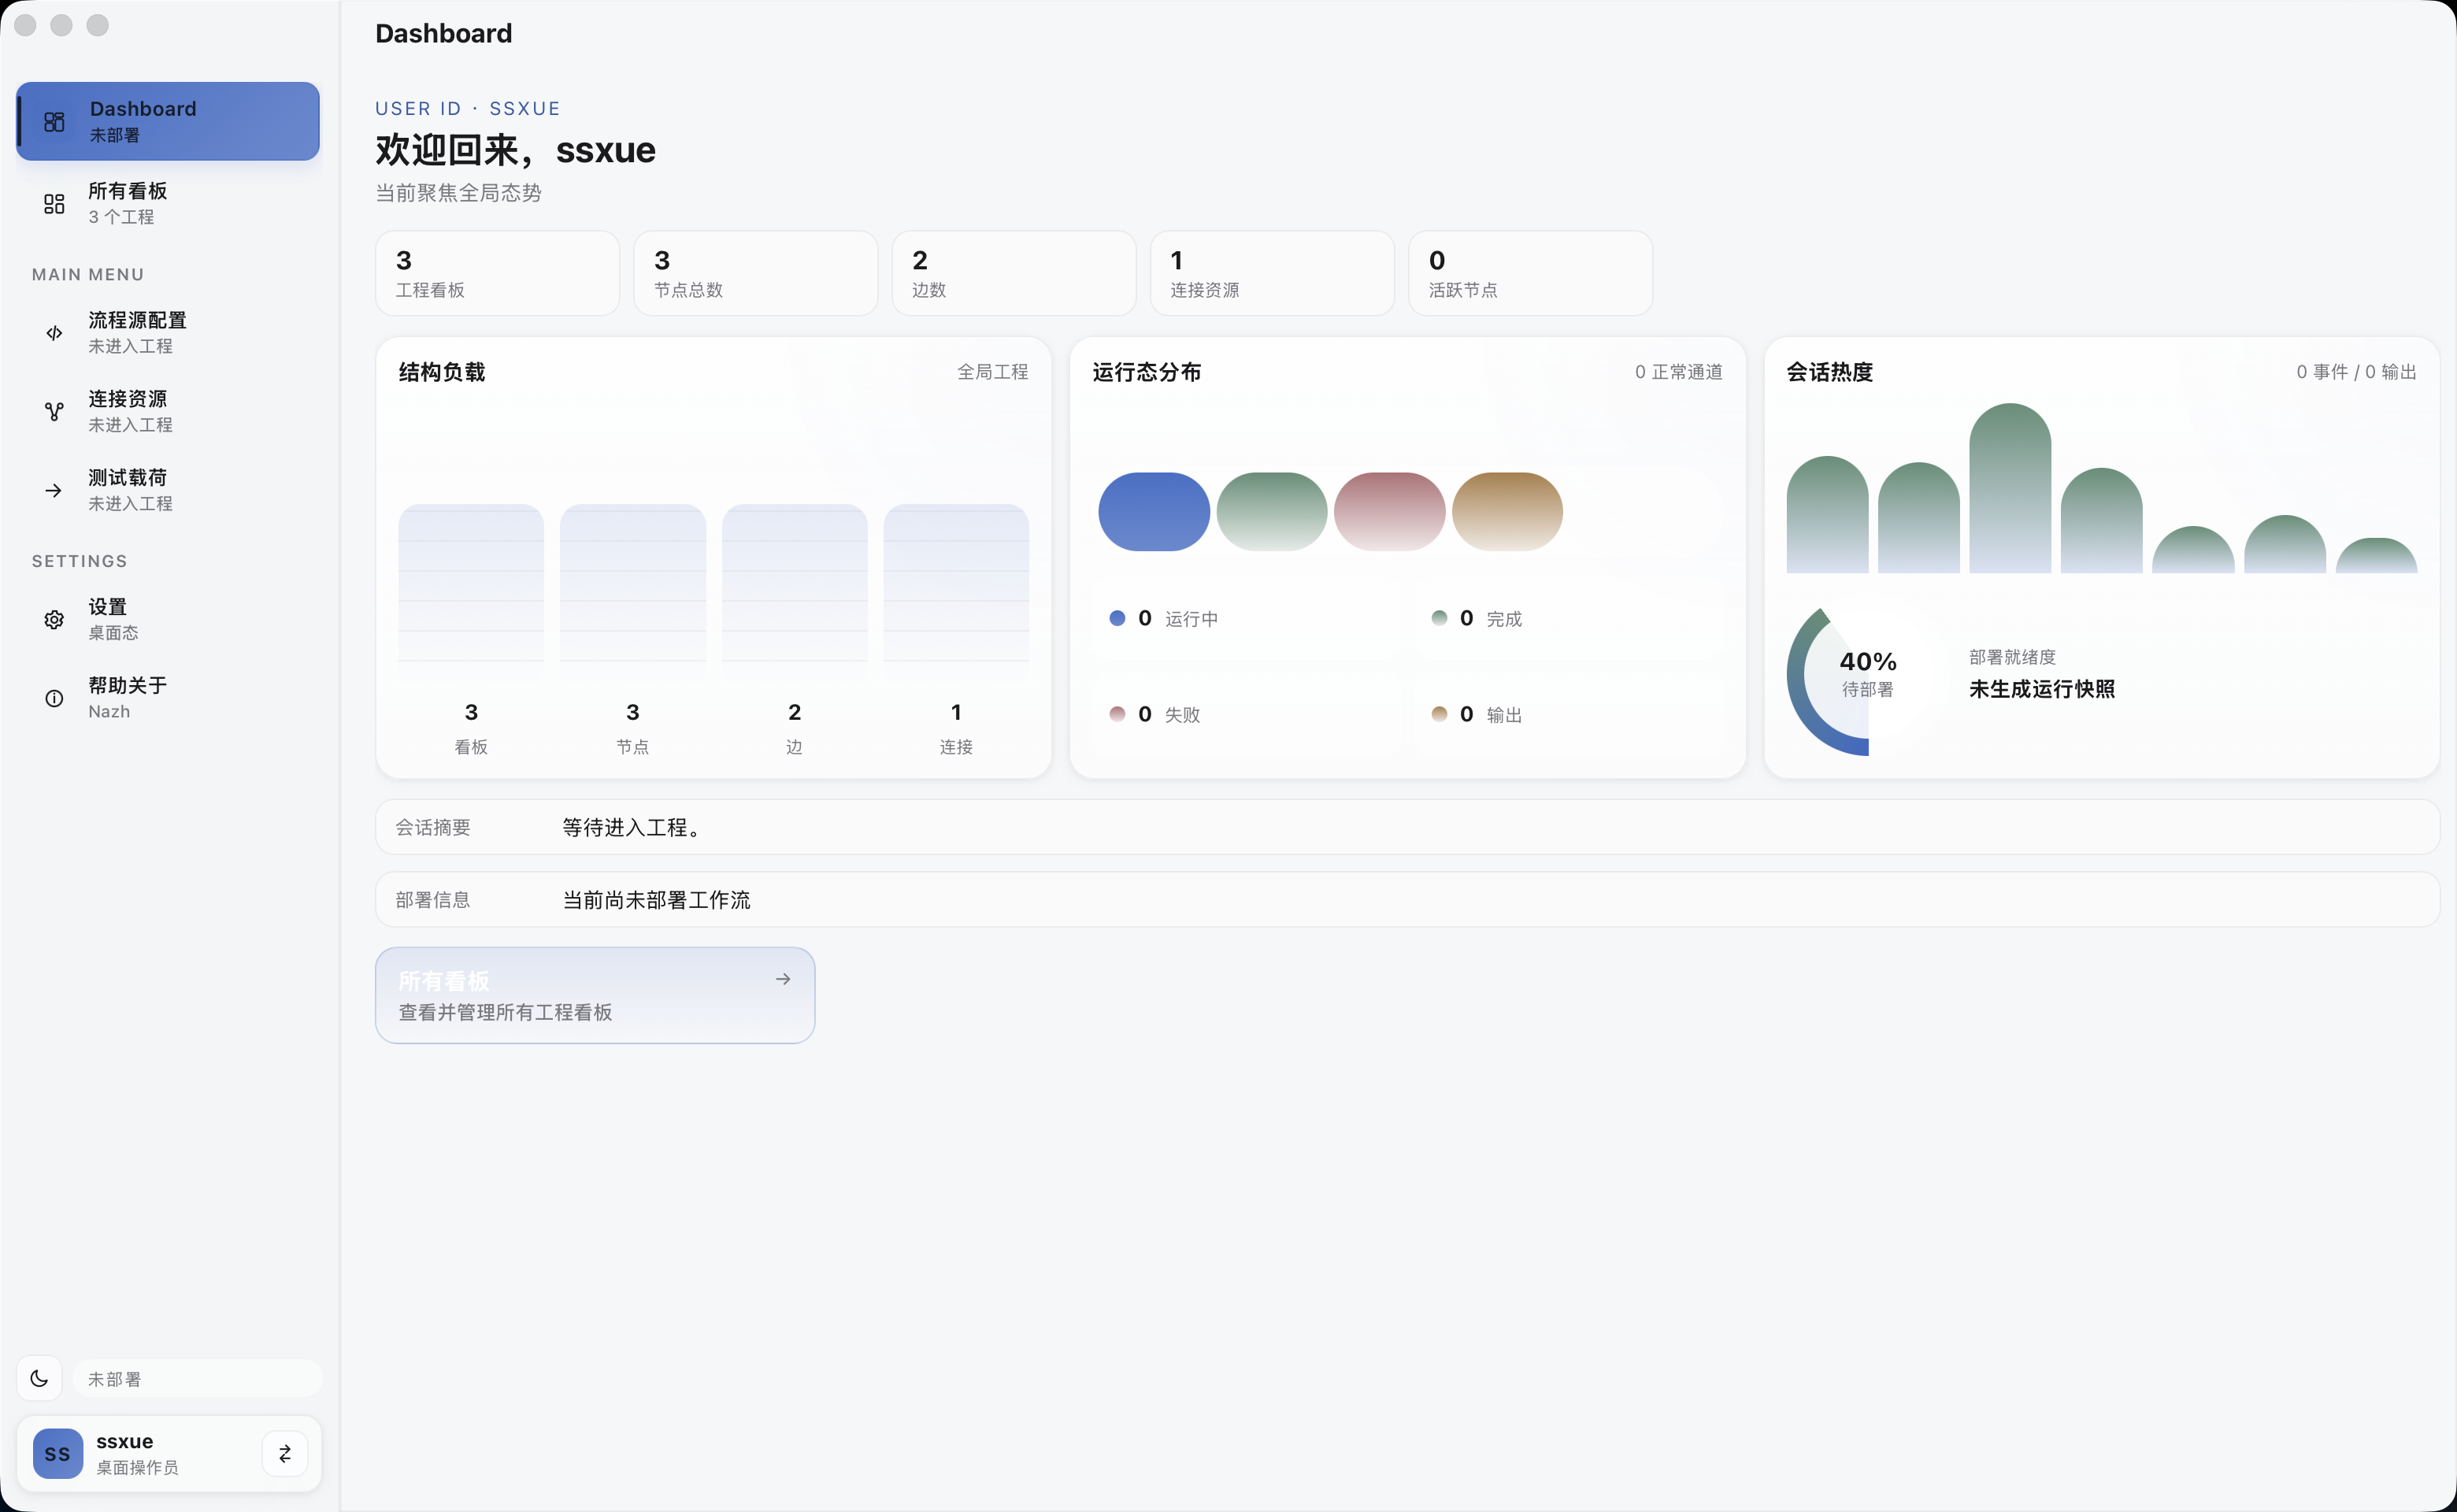
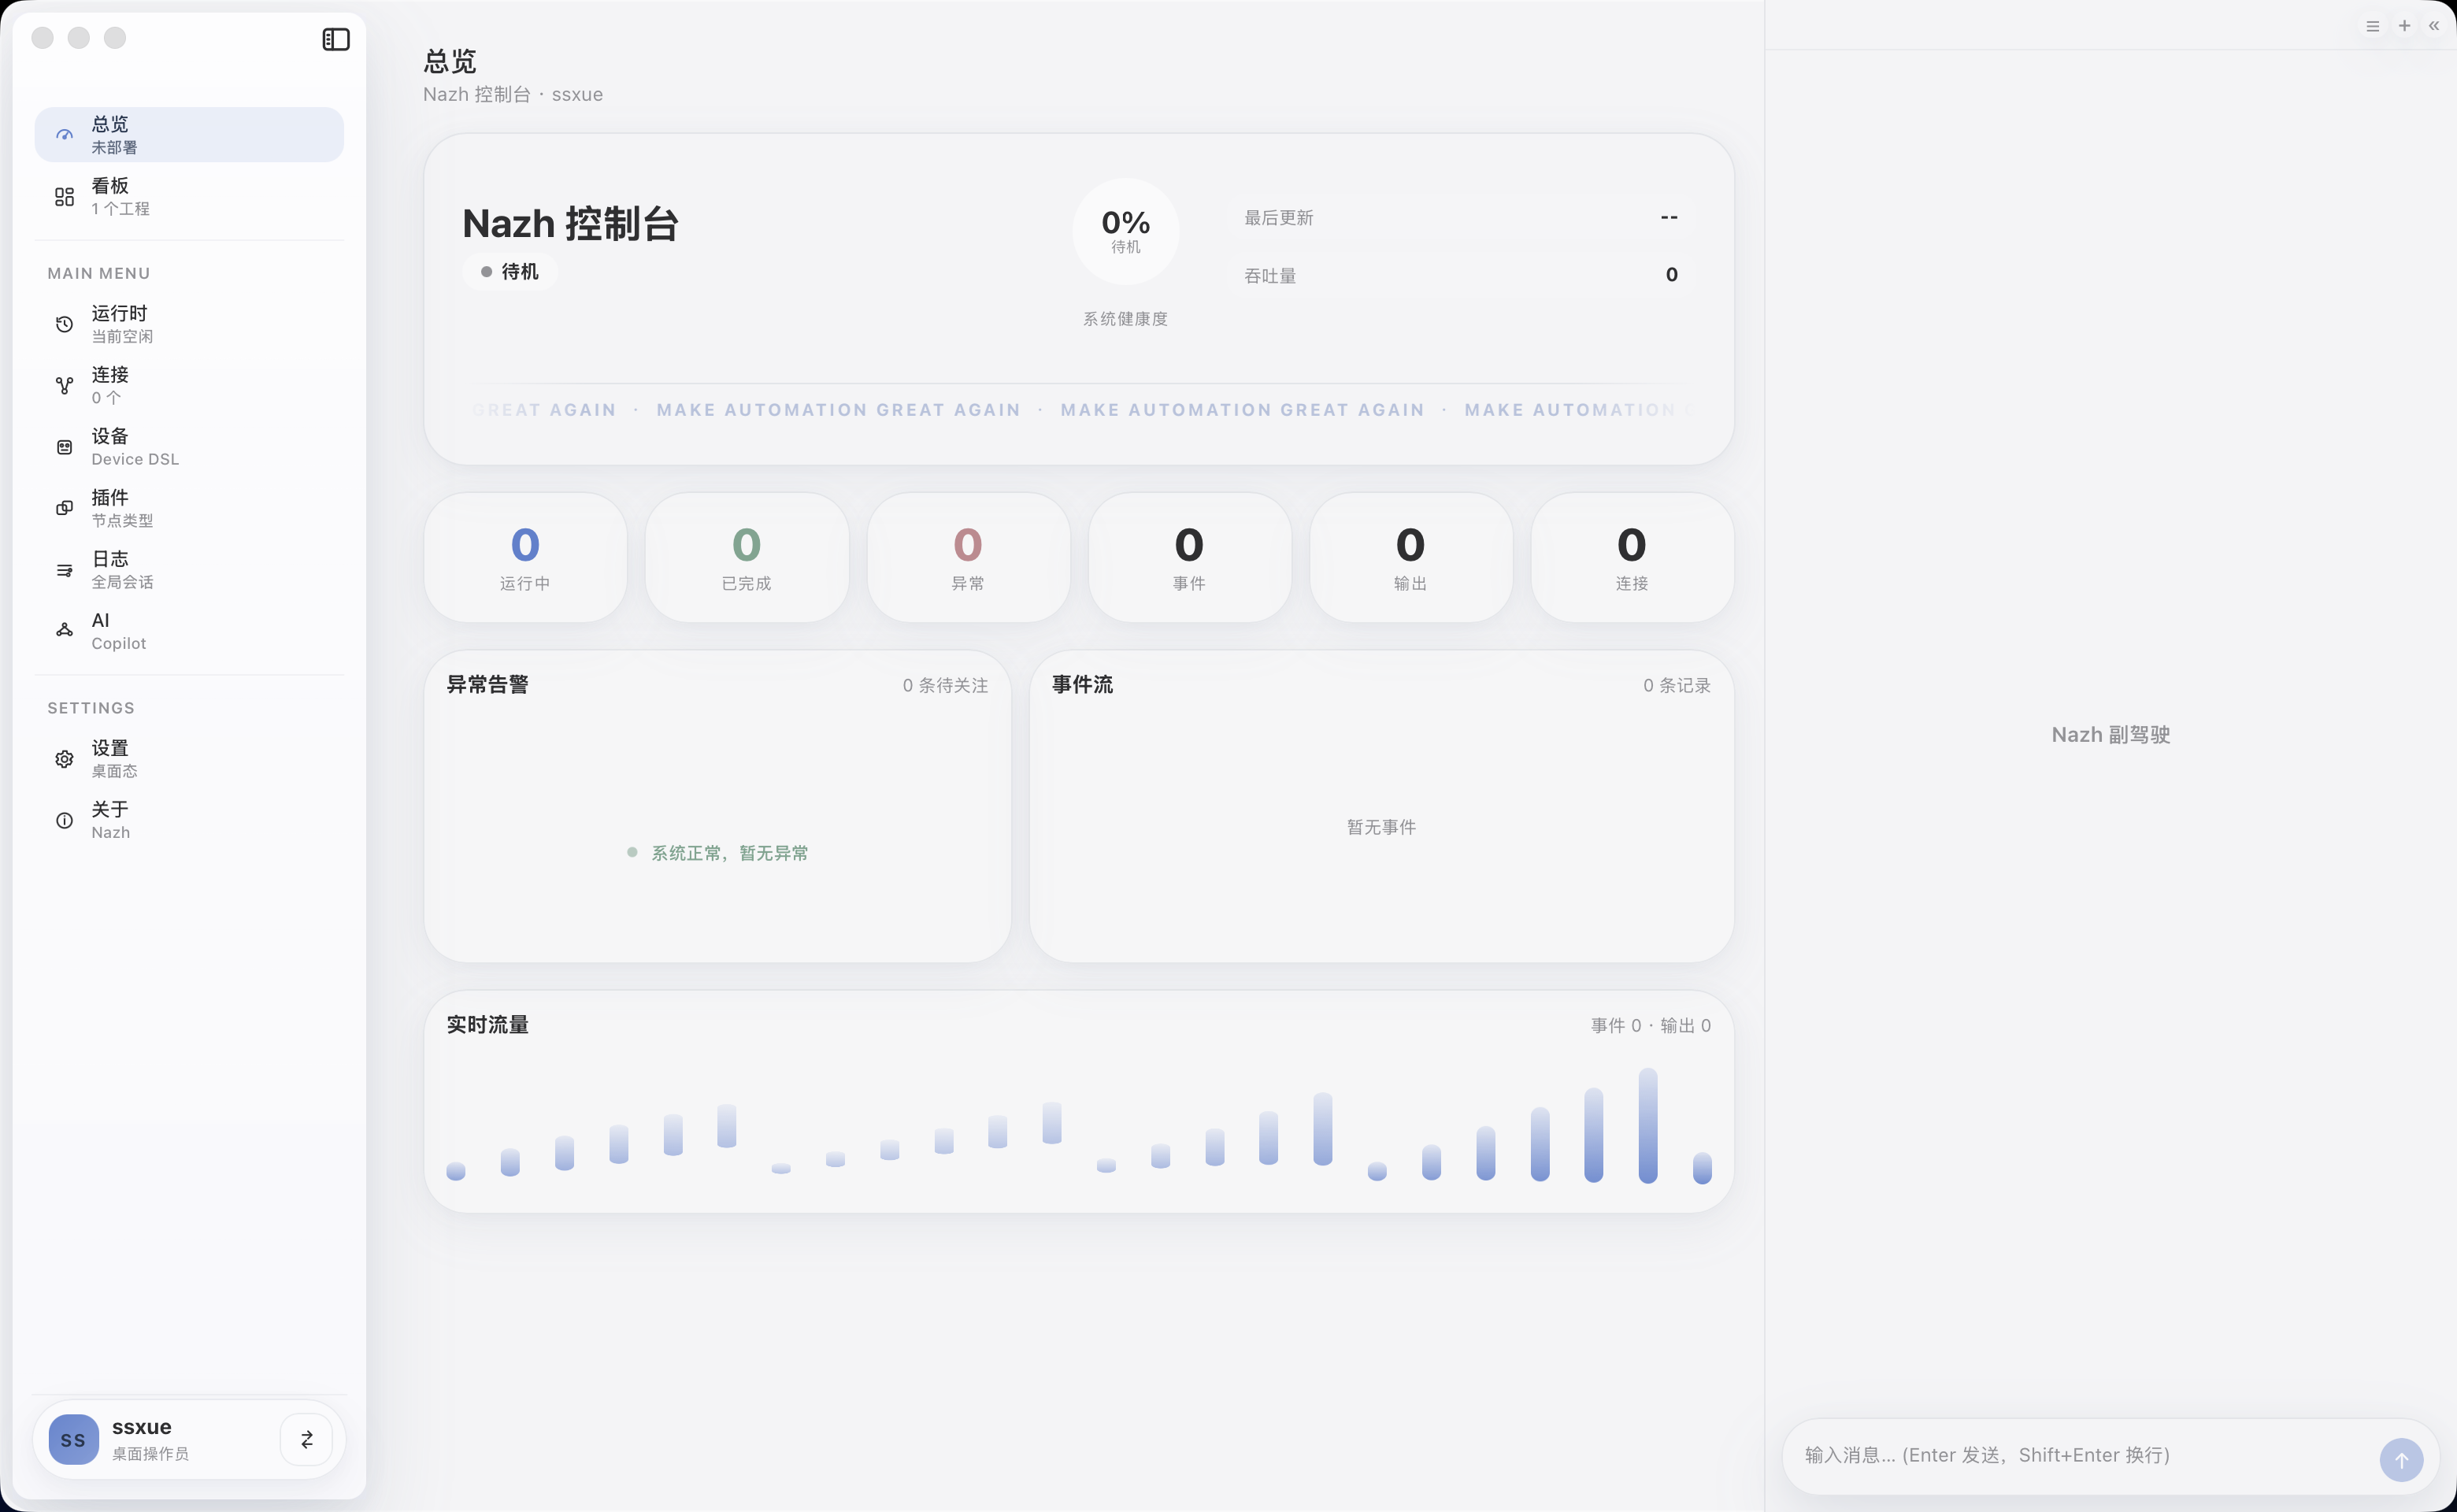
docs: README 添加产品预览截图表格

diff --git a/README.md b/README.md
@@ -27,6 +27,43 @@ Nazh 面向**工业边缘侧的本地部署**场景：
 | **产线质量控制** | 质检数据与设备参数脱节 | 数据清洗 → 条件判断 → 自动停线/通知 |
 | **能耗优化** | 电表/气表数据孤岛 | 定时采集 → 聚合计算 → 超阈值告警 |
 
+## 产品预览
+
+<table>
+  <tr>
+    <td align="center" width="50%">
+      <a href="./docs/screenshots/desktop-dashboard.png">
+        <img src="./docs/screenshots/desktop-dashboard.png" alt="桌面控制台总览" width="100%" />
+      </a>
+      <br/>
+      <sub><b>桌面控制台</b> · 运行时计数、异常告警、事件流与实时流量一屏掌控</sub>
+    </td>
+    <td align="center" width="50%">
+      <a href="./docs/screenshots/project.png">
+        <img src="./docs/screenshots/project.png" alt="工作流编排画布" width="100%" />
+      </a>
+      <br/>
+      <sub><b>工作流编排</b> · FlowGram.AI 画布拖拽节点,触发器/流程/IO 一气呵成</sub>
+    </td>
+  </tr>
+  <tr>
+    <td align="center" width="50%">
+      <a href="./docs/screenshots/DSL.png">
+        <img src="./docs/screenshots/DSL.png" alt="DSL 设备资产管理" width="100%" />
+      </a>
+      <br/>
+      <sub><b>DSL 设备库</b> · 上传 PDF / ESI 由 AI 抽取设备元数据,生成可审查的 YAML 资产</sub>
+    </td>
+    <td align="center" width="50%">
+      <a href="./docs/screenshots/连接资源管理器.png">
+        <img src="./docs/screenshots/连接资源管理器.png" alt="连接资源管理器" width="100%" />
+      </a>
+      <br/>
+      <sub><b>连接资源管理器</b> · Modbus / MQTT / HTTP 等连接集中治理,RAII 自动回收</sub>
+    </td>
+  </tr>
+</table>
+
 ---
 
 ## 👇 技术评估资料